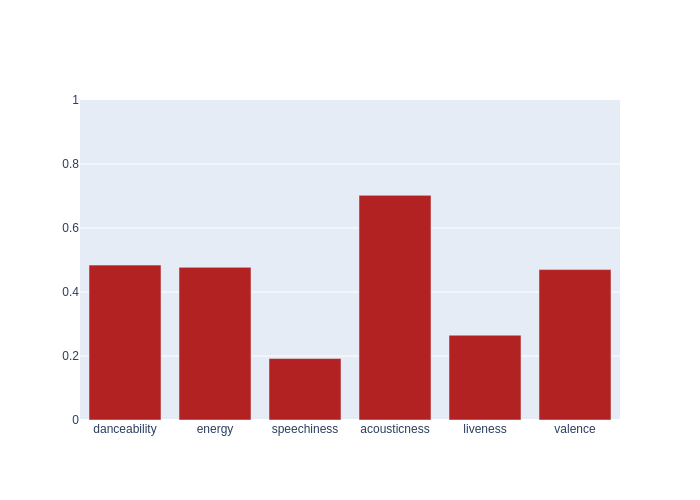
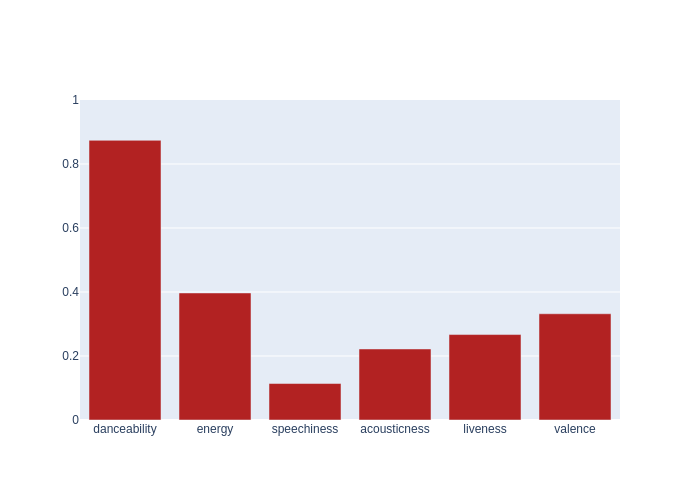
Automated README update

diff --git a/README.md b/README.md
@@ -4,7 +4,7 @@ Automated music metrics for fun, updated hourly.
 
 ## Spotify
 
-- currently listening to **KA$HDAMI - Figures**
+- currently listening to **Fase Yoda - Butterflies**
 
 - **890** liked songs
 - **146** playlists
